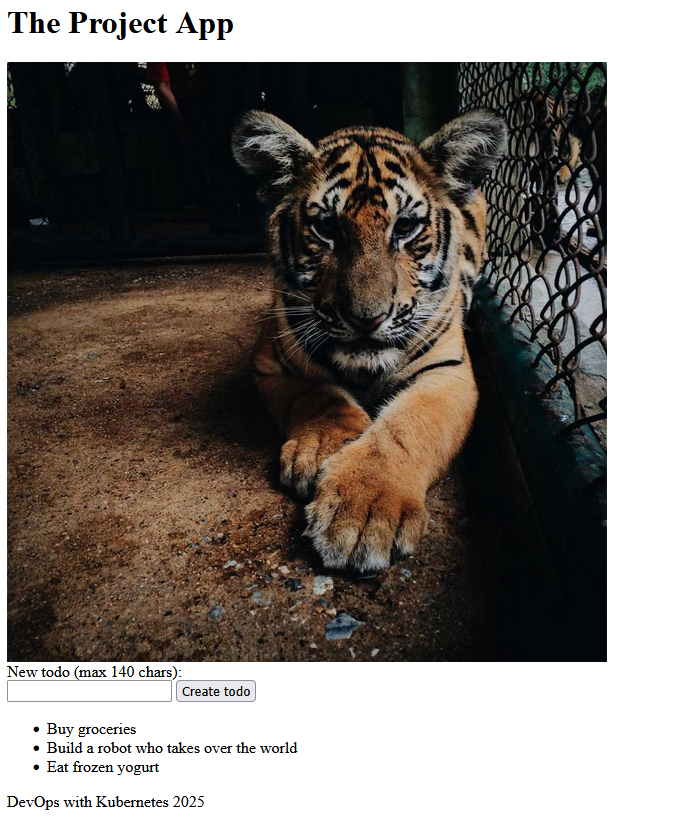
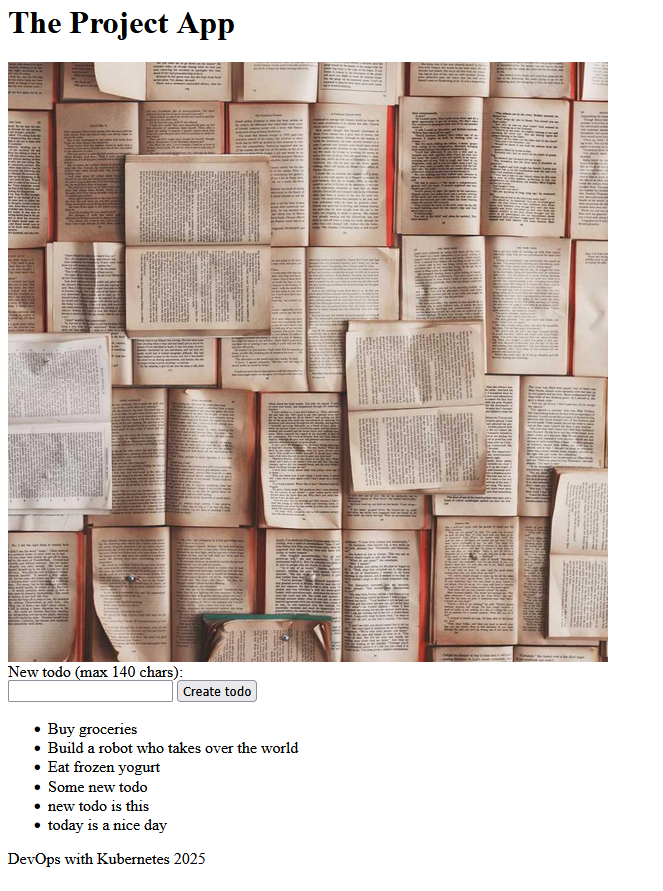
Add in-memory todo functionality to the_project

diff --git a/the_project/src/main.rs b/the_project/src/main.rs
@@ -1,9 +1,16 @@
-use axum::{Router, response::Html, routing::get};
+use axum::{
+    extract::State,
+    http::StatusCode,
+    response::{Html, IntoResponse, Response},
+    routing::{get, post},
+    Json, Router,
+};
 use reqwest;
 use serde::{Deserialize, Serialize};
 use serde_json;
 use std::env;
 use std::fs;
+use std::sync::{Arc, Mutex};
 use std::time::{SystemTime, UNIX_EPOCH};
 use tokio::net::TcpListener;
 use tracing::{error, info};
@@ -13,9 +20,18 @@ const META_FILE_PATH: &str = "/opt/project/meta.json";
 const PICSUM_URL: &str = "https://picsum.photos/1200";
 const CACHE_TIME: u64 = 10 * 60; // 10 minutes in seconds
 
-#[derive(Serialize, Deserialize, Debug)]
+#[derive(Serialize, Deserialize, Debug, Clone)]
 struct ImageMeta {
     last_fetched: u64,
+}
+
+#[derive(Serialize, Deserialize, Debug, Clone)]
+struct Todo {
+    text: String,
+}
+
+struct AppState {
+    todos: Mutex<Vec<String>>,
 }
 
 fn read_meta() -> Option<ImageMeta> {
@@ -84,12 +100,35 @@ async fn fetch_image() {
         write_meta(&meta);
     } else {
         info!("Using cached image.");
-        return;
     }
 }
 
-async fn home() -> Html<&'static str> {
-    Html(
+async fn home() -> Html<String> {
+    let backend_url = env::var("BACKEND_URL").unwrap_or_else(|_| "http://localhost:3000".to_string());
+    let todos_url = format!("{}/todos", backend_url);
+    
+    let mut todos_html = String::new();
+    match reqwest::get(&todos_url).await {
+        Ok(resp) => {
+            match resp.json::<Vec<String>>().await {
+                Ok(todos) => {
+                    for todo in todos {
+                        todos_html.push_str(&format!("<li>{}</li>", todo));
+                    }
+                }
+                Err(e) => {
+                    error!("Failed to parse todos: {}", e);
+                    todos_html.push_str("<li>Error loading todos</li>");
+                }
+            }
+        }
+        Err(e) => {
+            error!("Failed to fetch todos from {}: {}", todos_url, e);
+            todos_html.push_str("<li>Backend unreachable</li>");
+        }
+    }
+
+    Html(format!(
         r#"
         <h1>The Project App</h1>
         <img src="/image" alt="Random Image" width="600"/><br/>
@@ -97,26 +136,41 @@ async fn home() -> Html<&'static str> {
         <section>
             <label for="todo-input">New todo (max 140 chars):</label><br/>
             <input id="todo-input" type="text" maxlength="140"/>
-            <button id="send-btn" type="button">Create todo</button>
+            <button id="send-btn" type="button" onclick="sendTodo()">Create todo</button>
 
             <ul id="todos">
-                <li>Buy groceries</li>
-                <li>Build a robot who takes over the world</li>
-                <li>Eat frozen yogurt</li>
+                {}
             </ul>
         </section>
 
+        <script>
+            async function sendTodo() {{
+                const input = document.getElementById('todo-input');
+                const text = input.value;
+                if (!text) return;
+                
+                await fetch('/todos', {{
+                    method: 'POST',
+                    headers: {{ 'Content-Type': 'application/json' }},
+                    body: JSON.stringify({{ text }})
+                }});
+                input.value = '';
+                window.location.reload();
+            }}
+        </script>
+
         DevOps with Kubernetes 2025
         "#,
-    )
+        todos_html
+    ))
 }
 
-async fn image_handler() -> Result<axum::response::Response, axum::http::StatusCode> {
+async fn image_handler() -> Result<Response, StatusCode> {
     fetch_image().await;
 
     match fs::read(IMAGE_PATH) {
         Ok(image_data) => {
-            let response = axum::response::Response::builder()
+            let response = Response::builder()
                 .header("Content-Type", "image/jpeg")
                 .body(axum::body::Body::from(image_data))
                 .unwrap();
@@ -124,32 +178,71 @@ async fn image_handler() -> Result<axum::response::Response, axum::http::StatusC
         }
         Err(e) => {
             error!("Failed to read image from disk: {}", e);
-            Err(axum::http::StatusCode::INTERNAL_SERVER_ERROR)
+            Err(StatusCode::INTERNAL_SERVER_ERROR)
         }
     }
+}
+
+// Backend handlers
+async fn get_todos(State(state): State<Arc<AppState>>) -> Json<Vec<String>> {
+    let todos = state.todos.lock().unwrap();
+    Json(todos.clone())
+}
+
+async fn post_todo(
+    State(state): State<Arc<AppState>>,
+    Json(payload): Json<Todo>,
+) -> StatusCode {
+    if payload.text.len() > 140 {
+        return StatusCode::BAD_REQUEST;
+    }
+    let mut todos = state.todos.lock().unwrap();
+    todos.push(payload.text);
+    StatusCode::CREATED
 }
 
 #[tokio::main]
 async fn main() {
     tracing_subscriber::fmt::init();
 
+    let app_type = env::var("APPLICATION_TYPE").unwrap_or_else(|_| "app".to_string());
     let port = env::var("PORT").unwrap_or_else(|_| "3000".to_string());
-    let app = Router::new()
-        .route("/", get(home))
-        .route("/image", get(image_handler));
 
-    let listener = match TcpListener::bind(format!("0.0.0.0:{}", port)).await {
-        Ok(l) => {
-            info!("Server started in port {}", port);
-            l
-        }
-        Err(e) => {
-            error!("Failed to bind to port {}: {}", port, e);
-            return;
-        }
-    };
+    if app_type == "backend" {
+        info!("Starting in backend mode on port {}", port);
+        let state = Arc::new(AppState {
+            todos: Mutex::new(vec![
+                "Buy groceries".to_string(),
+                "Build a robot who takes over the world".to_string(),
+                "Eat frozen yogurt".to_string(),
+            ]),
+        });
 
-    if let Err(e) = axum::serve(listener, app).await {
-        error!("Server error: {}", e);
+        let app = Router::new()
+            .route("/todos", get(get_todos).post(post_todo))
+            .with_state(state);
+
+        let listener = match TcpListener::bind(format!("0.0.0.0:{}", port)).await {
+            Ok(l) => l,
+            Err(e) => {
+                error!("Failed to bind to port {}: {}", port, e);
+                return;
+            }
+        };
+        axum::serve(listener, app).await.unwrap();
+    } else {
+        info!("Starting in app mode on port {}", port);
+        let app = Router::new()
+            .route("/", get(home))
+            .route("/image", get(image_handler));
+
+        let listener = match TcpListener::bind(format!("0.0.0.0:{}", port)).await {
+            Ok(l) => l,
+            Err(e) => {
+                error!("Failed to bind to port {}: {}", port, e);
+                return;
+            }
+        };
+        axum::serve(listener, app).await.unwrap();
     }
 }

diff --git a/the_project/README.md b/the_project/README.md
@@ -4,28 +4,34 @@ This is a project to learn kubernetes from the MOOC.fi course "DevOps with Kuber
 
 ## Getting Started
 
-1. Make sure your local k3d cluster is running
+1. Make a k3d local registry for image storage
 ```bash
-k3d cluster create --port 8082:30080@agent:0 -p 8081:80@loadbalancer --agents 2
+k3d registry create local-registry --port 5000
 ```
 
-2. Make sure the persistent volume mount location exists
+2. Make sure your local k3d cluster is running
 ```bash
-docker exec k3d-k3s-default-agent-0 mkdir -p /tmp/kube
+k3d cluster create --port 8082:30080@agent:0 -p 8081:80@loadbalancer --agents 2 --registry-use k3d-local-registry:5000
 ```
 
 3. Create the required resources using kubectl
 
 ```bash
-# Volumes
-kubectl apply -f ../volumes/
+docker tag todo-app:latest k3d-local-registry:5000/todo-app:latest
+docker tag todo-backend:latest k3d-local-registry:5000/todo-backend:latest
+docker push k3d-local-registry:5000/todo-app:latest
+docker push k3d-local-registry:5000/todo-backend:latest
 
-# The Project
-docker build -t the-project .
-k3d image import the-project:latest
-kubectl apply -f ../the_project/manifests/
+kubectl apply -f ../volumes/
+kubectl apply -f manifests/
 ```
 
-4. Visit `localhost:8081/`
+4. Access the application
+
+```bash
+kubectl port-forward svc/the-project-service 8080:3000
+```
+
+Visit `http://localhost:8080`
 
 ![The Project](../assets/the_project_screenshot.png)

diff --git a/README.md b/README.md
@@ -22,3 +22,4 @@ Repo containing submissions made to devops with k8s course by mooc.fi
 ### Chapter 3
 
 - [2.1.](https://github.com/blucin/k8-submissions/tree/2.1/log_output)
+- [2.2.](https://github.com/blucin/k8-submissions/tree/2.2/the_project)
